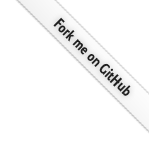
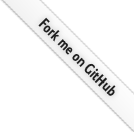
small change on the fork me on github link.

diff --git a/CiviKey/Content/Layout.css b/CiviKey/Content/Layout.css
@@ -118,6 +118,13 @@ ul#menu li.menuelem.selected a
     color: #b7b7b7;
 }
 
+.header-forkme
+{
+    float: right; 
+    height:100px; 
+    width: 100px;
+}
+
 /* ------------------------ Main container -------------------- */
 
 #main
